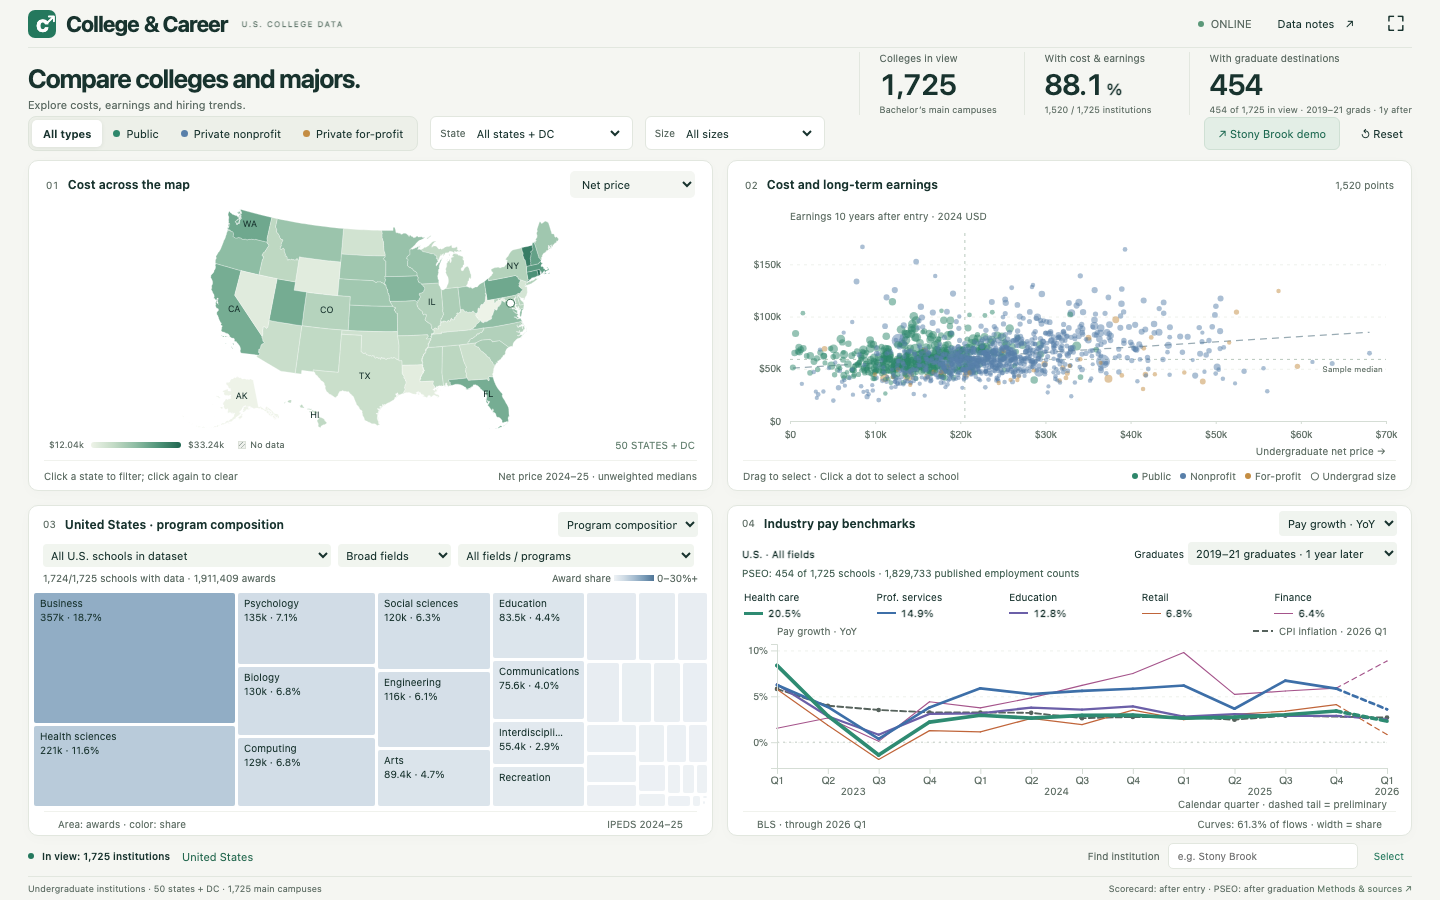
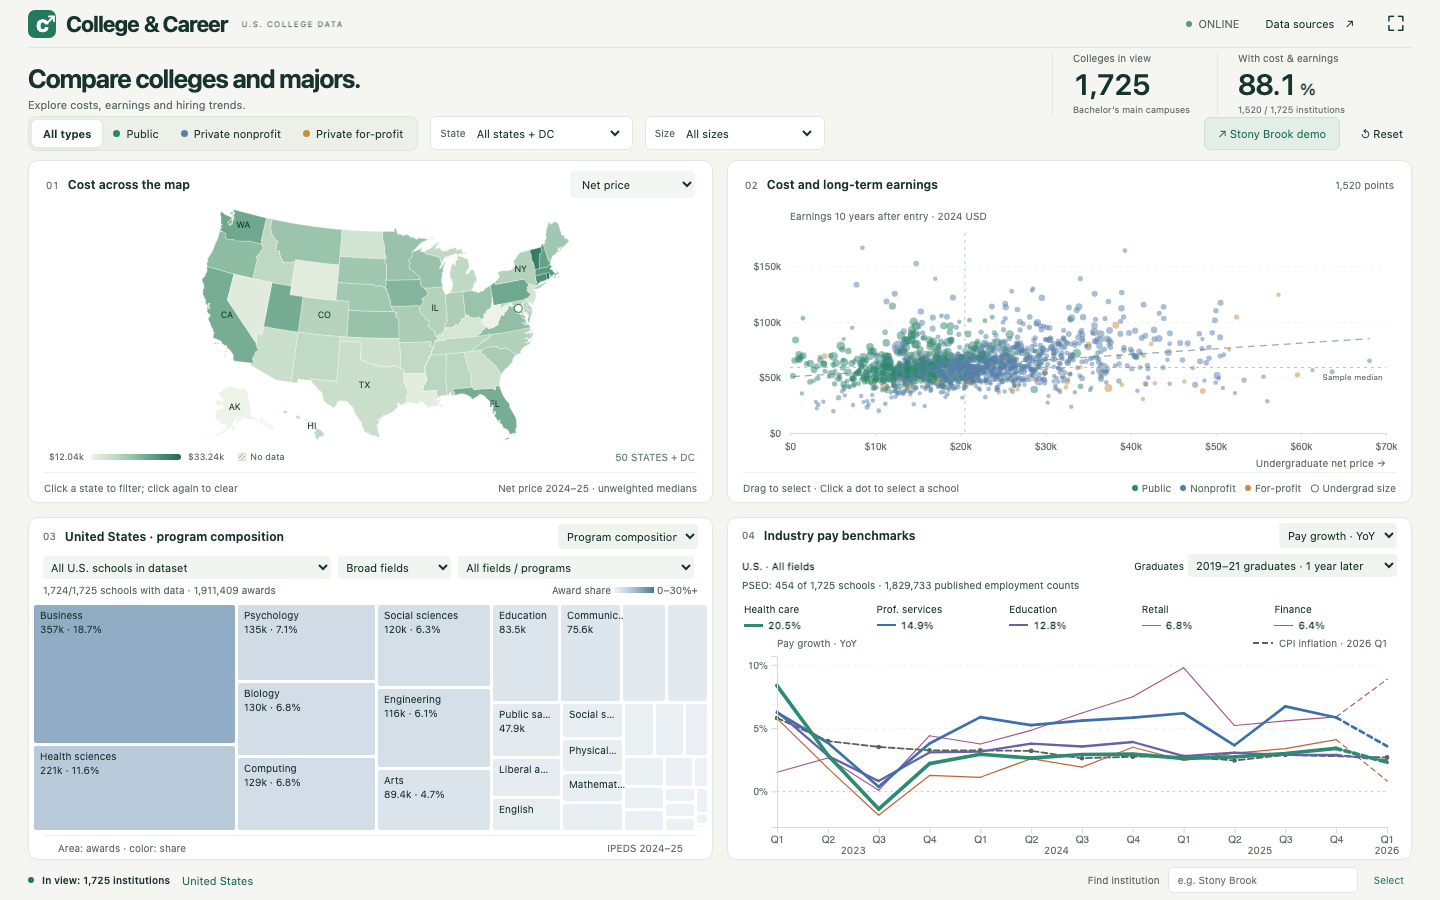
Remove dashboard footnotes and add source links

diff --git a/docs/styles.css b/docs/styles.css
@@ -413,18 +413,6 @@ a:focus-visible {
   border: 1px solid var(--line);
   border-radius: 5px;
   padding: 6px 9px;
-}footer {
-  border-top: 1px solid var(--line);
-  font-size: 9px;
-  color: #627168;
-  display: flex;
-  align-items: center;
-  justify-content: space-between;
-  gap: 15px;
-}footer button {
-  font-size: 9px;
-  color: #637c6b;
-  padding: 0;
 }.axis text {
   font-size: 9px;
   fill: #627168;
@@ -823,20 +811,20 @@ a:focus-visible {
 @media (max-height:820px) {.overview h1 { font-size:24px; }.program-summary { font-size:8px; }
 }/* School program -> major employment industries,
 directly in panel four. */
-.industry-pay-panel { grid-template-rows:36px 26px 38px minmax(0,1fr) 24px; }.industry-pay-panel .panel-head { padding:0 14px; }.industry-pay-panel .panel-head h2 { font-size:12px; }#industry-pay-mode { max-width:156px; padding:5px; border-radius:4px; background:#f0f4ef; font-size:10px; }.industry-pay-controls { display:flex; align-items:center; justify-content:space-between; gap:8px; padding:0 14px; min-width:0; }#industry-pay-scope { min-width:0; overflow:hidden; white-space:nowrap; text-overflow:ellipsis; font-size:10px; font-weight:550; }.industry-pay-controls select { flex-shrink:0; max-width:158px; font-size:10px; padding:4px; border-radius:4px; background:#f0f4ef; }#industry-pay-legend { display:grid; grid-template-columns:repeat(5,minmax(0,1fr)); gap:4px; align-items:center; padding:0 12px; min-width:0; }.industry-legend-item { min-width:0; padding:3px 4px; text-align:left; border-radius:4px; }.industry-legend-item > span { display:block; font-size:9px; white-space:nowrap; overflow:hidden; text-overflow:ellipsis; }.industry-legend-item b { display:flex; align-items:center; gap:5px; margin-top:4px; font-size:9px; font-weight:550; font-variant-numeric:tabular-nums; }.industry-legend-item i { display:inline-block; width:19px; height:0; }.industry-legend-item[aria-pressed="true"] { background:#fbefdc; box-shadow:inset 0 0 0 1px #b5701a; }.industry-pay-panel .panel-foot { padding:0 14px; gap:5px; font-size:8px; }.industry-pay-hit { cursor:pointer; }.industry-pay-hit:focus-visible { outline:none; stroke:#18332e; stroke-width:2px; stroke-opacity:1; stroke-dasharray:3 3; filter:drop-shadow(0 0 2px #ffffff); }
+.industry-pay-panel { grid-template-rows:36px 26px 38px minmax(0,1fr); }.industry-pay-panel .panel-head { padding:0 14px; }.industry-pay-panel .panel-head h2 { font-size:12px; }#industry-pay-mode { max-width:156px; padding:5px; border-radius:4px; background:#f0f4ef; font-size:10px; }.industry-pay-controls { display:flex; align-items:center; justify-content:space-between; gap:8px; padding:0 14px; min-width:0; }#industry-pay-scope { min-width:0; overflow:hidden; white-space:nowrap; text-overflow:ellipsis; font-size:10px; font-weight:550; }.industry-pay-controls select { flex-shrink:0; max-width:158px; font-size:10px; padding:4px; border-radius:4px; background:#f0f4ef; }#industry-pay-legend { display:grid; grid-template-columns:repeat(5,minmax(0,1fr)); gap:4px; align-items:center; padding:0 12px; min-width:0; }.industry-legend-item { min-width:0; padding:3px 4px; text-align:left; border-radius:4px; }.industry-legend-item > span { display:block; font-size:9px; white-space:nowrap; overflow:hidden; text-overflow:ellipsis; }.industry-legend-item b { display:flex; align-items:center; gap:5px; margin-top:4px; font-size:9px; font-weight:550; font-variant-numeric:tabular-nums; }.industry-legend-item i { display:inline-block; width:19px; height:0; }.industry-legend-item[aria-pressed="true"] { background:#fbefdc; box-shadow:inset 0 0 0 1px #b5701a; }.industry-pay-panel .panel-foot { padding:0 14px; gap:5px; font-size:8px; }.industry-pay-hit { cursor:pointer; }.industry-pay-hit:focus-visible { outline:none; stroke:#18332e; stroke-width:2px; stroke-opacity:1; stroke-dasharray:3 3; filter:drop-shadow(0 0 2px #ffffff); }
 @media(max-width:1250px) {.industry-pay-panel .panel-head h2 { font-size:11px; }#industry-pay-mode { max-width:142px; }.industry-pay-panel .panel-foot { font-size:7px; }.industry-legend-item > span,
 .industry-legend-item b { font-size:8px; }
 }.programs-panel .panel-head h2 { min-width:0; white-space:nowrap; overflow:hidden; text-overflow:ellipsis; }.programs-panel .panel-head > div { flex:1; min-width:0; }#program-view { flex-shrink:0; }
 
 /* Audited desktop layout. The chart grid stays fixed; narrow-height mode removes
-   the redundant hero/footer instead of hiding controls or adding scrolling. */
-.app-shell { grid-template-rows:48px 70px 42px minmax(0,1fr) 40px 24px; }
+   the hero instead of hiding controls or adding scrolling. */
+.app-shell { grid-template-rows:48px 70px 42px minmax(0,1fr) 40px; }
 .panel-head h2,.programs-panel .panel-head h2,.industry-pay-panel .panel-head h2 { font-size:12px; }
 .panel-foot,.programs-panel .panel-foot,.industry-pay-panel .panel-foot { font-size:10px; }
 .axis text,.axis-label,.coverage-caption,.program-row-label { font-size:10px; }
 .program-controls select,.industry-pay-controls select,#program-view,#industry-pay-mode { font-size:11px; }
 .program-summary,#program-color-key,#program-page { font-size:10px; }
-.industry-pay-panel { grid-template-rows:34px 27px 19px 38px minmax(0,1fr) 24px; }
+.industry-pay-panel { grid-template-rows:34px 27px 19px 38px minmax(0,1fr); }
 .industry-legend-item > span,.industry-legend-item b { font-size:10px; }
 #industry-pay-mode { max-width:190px; }
 #industry-pay-scope { font-size:10px; }
@@ -864,13 +852,13 @@ directly in panel four. */
   #industry-pay-scope { max-width:240px; }
 }
 @media(max-height:700px) {
-  .app-shell { grid-template-rows:40px 0 38px minmax(0,1fr) 30px 0; padding:0 16px; }
-  .overview,footer { display:none; }
+  .app-shell { grid-template-rows:40px 0 38px minmax(0,1fr) 30px; padding:0 16px; }
+  .overview { display:none; }
   .dashboard { gap:10px; }
   .panel-head { height:auto; }
   .panel { grid-template-rows:34px minmax(0,1fr) 22px; }
   .programs-panel { grid-template-rows:32px 24px 20px minmax(0,1fr) 22px; }
-  .industry-pay-panel { grid-template-rows:32px 24px 18px 34px minmax(0,1fr) 22px; }
+  .industry-pay-panel { grid-template-rows:32px 24px 18px 34px minmax(0,1fr); }
   .brand { font-size:19px; }
   .top-actions { gap:10px; }
   .source-badge { display:none; }
@@ -895,7 +883,6 @@ directly in panel four. */
 .app-shell > .toolbar { grid-row:3; }
 .app-shell > .dashboard { grid-row:4; }
 .app-shell > .selection-bar { grid-row:5; }
-.app-shell > footer { grid-row:6; }
 
 .size-filter { display:flex; }
 .school-search input[aria-invalid="true"] { outline:1px solid #ad6e48; }
@@ -913,7 +900,7 @@ directly in panel four. */
 .brand-caption { margin-left:14px; font-family:inherit; font-size:8px; font-weight:550; letter-spacing:1.2px; color:#657b70; white-space:nowrap; }
 .intro h1 { font-family:inherit; font-weight:650; color:var(--ink); }
 
-/* Compact chart values; detailed provenance is in the Data notes panel. */
+/* Compact chart values; primary source links are in the header. */
 #tooltip { max-width:310px; padding:10px 12px; font-size:12px; line-height:1.45; }
 #tooltip.data-notes { max-width:390px; }
 #tooltip .tip-row { display:flex; justify-content:space-between; align-items:baseline; gap:12px; margin-top:3px; }
@@ -931,3 +918,9 @@ directly in panel four. */
 .program-interval:focus-visible > rect { stroke:#18332e; stroke-width:2px; stroke-dasharray:3 2; }
 .scatter-brush .selection { fill:#b5701a; fill-opacity:.08; stroke:#b5701a; }
 .destination-pay-series:focus-within { opacity:1; }
+
+/* Compact, keyboard-accessible list of primary data sources. */
+#tooltip.data-notes { min-width:250px; }
+.source-links { display:grid; gap:3px; margin-top:7px; }
+.source-links a { display:flex; justify-content:space-between; gap:24px; padding:6px 8px; color:#ffffff; text-decoration:none; border-radius:4px; }
+.source-links a:hover,.source-links a:focus-visible { background:#ffffff18; outline:1px solid #c4d5cc; outline-offset:0; }

diff --git a/docs/app.js b/docs/app.js
@@ -96,8 +96,11 @@ function tooltipRow(label, value) {
 }
 function showTooltip(event, html, variant = "chart") {
   const el = getElement("tooltip");
+  if (variant !== "notes") getElement("method-button")?.setAttribute("aria-expanded", "false");
   el.classList.toggle("data-notes", variant === "notes");
   el.setAttribute("role","tooltip");
+  el.removeAttribute("aria-label");
+  el.removeAttribute("tabindex");
   el.style.pointerEvents="none";
   el.innerHTML = html;
   const bounds=event.currentTarget?.getBoundingClientRect?.();
@@ -110,7 +113,7 @@ function showTooltip(event, html, variant = "chart") {
 }
 function hideTooltip() {
   getElement("tooltip").hidden = true;
-  for(const id of ["method-button","source-link"])getElement(id)?.setAttribute("aria-expanded","false");
+  getElement("method-button")?.setAttribute("aria-expanded","false");
 }
 let toastTimer;
 function toast(text) {
@@ -160,9 +163,6 @@ function render() {
       : "—") + "<span>%</span>";
   getElement("pair-note").textContent =
     `${numberFormat.format(paired.length)} / ${numberFormat.format(filteredInstitutions.length)} institutions`;
-  getElement("kpi-flows").textContent = numberFormat.format(employment.withFlows);
-  getElement("flow-kpi-note").textContent =
-    `${numberFormat.format(employment.withFlows)} of ${numberFormat.format(employment.denominator)} in view · ${cohortLabel(state.pseoSnapshot)}`;
   getElement("state-filter").value = state.region;
   getElement("size-filter").value = state.size;
   getElement("map-metric").value = state.mapMetric;
@@ -706,17 +706,34 @@ getElement("open-school").addEventListener("click", searchSchool);
 getElement("school-search").addEventListener("keydown", (e) => {
   if (e.key === "Enter") searchSchool();
 });
-for (const id of ["method-button", "source-link"]) {
-  const button=getElement(id);button.setAttribute('aria-controls','tooltip');button.setAttribute('aria-expanded','false');
-  button.addEventListener('click',(event)=>{
-    if(button.getAttribute('aria-expanded')==='true'){hideTooltip();return;}
-    showTooltip(event,`<strong>Sources and comparison periods</strong>IPEDS: ${META.awardYear} bachelor’s degree awards, not enrollment.<br>PSEO: ${META.pseoRelease}; ${cohortLabel(state.pseoSnapshot)}. Program income is in ${META.pseoDollarYear} dollars.<br>Industry pay: national private-sector QCEW through ${META.quarterLatest}. Pay growth and CPI inflation compare the same quarter one year earlier. CPI is a national reference; both curves end at ${PAY_COMPARISON_END}.<br>Hiring demand: Indeed Hiring Lab, through ${window.HIRING_DATA?.latest || "the latest snapshot"}; national occupational indices and separate state all-job references. Related roles are reviewed mappings, not alumni destinations. Hiring is independent of the alumni cohort.<div class="tip-muted">Area sums awards in the active scope. Industry line width uses historical PSEO employment shares, not current enrollment. National industry pay is not selected alumni pay. Destination clicks highlight the map only. Escape closes this note.</div>`, "notes");
-    getElement('tooltip').style.pointerEvents='auto';
-    button.setAttribute('aria-expanded','true');
-    if(event.detail===0){getElement('tooltip').setAttribute('tabindex','-1');getElement('tooltip').setAttribute('role','note');getElement('tooltip').focus();}
-  });
-}
-document.addEventListener('pointerdown',(event)=>{if(!event.target.closest('#tooltip,#method-button,#source-link'))hideTooltip();});
+// A short source list replaces the former methods/provenance note.
+const dataSources = [
+  ["College Scorecard", "https://collegescorecard.ed.gov/data/"],
+  ["IPEDS", "https://nces.ed.gov/ipeds/"],
+  ["Census PSEO", "https://lehd.ces.census.gov/data/pseo_documentation.html"],
+  ["BLS · Industry pay", "https://www.bls.gov/cew/"],
+  ["BLS · Consumer prices", "https://www.bls.gov/cpi/"],
+  ["Indeed Hiring Lab", "https://github.com/hiring-lab/job_postings_tracker"],
+];
+const sourceButton = getElement("method-button");
+sourceButton.setAttribute("aria-controls", "tooltip");
+sourceButton.setAttribute("aria-expanded", "false");
+sourceButton.setAttribute("aria-haspopup", "dialog");
+sourceButton.addEventListener("click", (event) => {
+  if (sourceButton.getAttribute("aria-expanded") === "true") { hideTooltip(); return; }
+  const links = dataSources.map(([name, url]) =>
+    `<a href="${url}" target="_blank" rel="noopener noreferrer">${name}<span aria-hidden="true">↗</span></a>`).join("");
+  showTooltip(event, `<strong>Data sources</strong><nav class="source-links" aria-label="Data sources">${links}</nav>`, "notes");
+  const popup = getElement("tooltip");
+  popup.style.pointerEvents = "auto";
+  popup.setAttribute("role", "dialog");
+  popup.setAttribute("aria-label", "Data sources");
+  sourceButton.setAttribute("aria-expanded", "true");
+  if (event.detail === 0) { popup.setAttribute("tabindex", "-1"); popup.focus(); }
+});
+document.addEventListener("pointerdown", (event) => {
+  if (!event.target.closest("#tooltip,#method-button")) hideTooltip();
+});
 getElement("fullscreen").addEventListener("click", async () => {
   try {
     if (document.fullscreenElement) await document.exitFullscreen();

diff --git a/docs/industry-pay.js b/docs/industry-pay.js
@@ -85,10 +85,6 @@ function renderIndustryPay() {
     .attr('title',(row)=>`${row.label} · Share: ${row.count}/${total} · ${(100*row.share).toFixed(1)}%${row.available?'':' · Pay: N/A'}`)
     .html((row)=>`<span>${escapeHtml(row.short)}${row.available?'':' · N/A'}</span><b><i style="border-top:${WIDTH_PER_SHARE*row.share}px solid ${row.available?industryColor(row.code):'#b6bcb8'}"></i>${(100*row.share).toFixed(1)}%</b>`)
     .on('click',(_,row)=>{industryPayState.focus=industryPayState.focus===row.code?null:row.code;hideTooltip();requestRender();});
-  getElement('industry-pay-source').textContent=`BLS · through ${PAY_COMPARISON_END.replace('-',' ')}`;
-  getElement('industry-pay-source').title='QCEW wage growth (latest quarter preliminary) and CPI-U inflation';
-  getElement('industry-pay-coverage').textContent=total?`Curves: ${(100*covered).toFixed(1)}% of flows · width = share`:'No published destinations';
-  getElement('industry-pay-coverage').title=`Share: ${(100*covered).toFixed(1)}% · ${numberFormat.format(total)} total`;
   const reason=!scope?.ids.length?'No schools in this scope':!total?'No published employment destinations':!available.length?'No wage series for these employment sectors':null;
   getElement('industry-pay-empty').hidden=!reason;
   getElement('industry-pay-empty-title').textContent=reason||'';
@@ -103,7 +99,7 @@ function renderIndustryPay() {
     values:Object.fromEntries(available.map((row)=>[row.code,payPoints(row.code).map((p)=>[p.label,p.value])])),reason};
 }
 function drawIndustryPay({svg,w,h},industries,composition) {
-  const m={l:49,r:24,t:20,b:43};
+  const m={l:49,r:24,t:20,b:32};
   const series=industries.map((row)=>({...row,points:payPoints(row.code)}));
   const cpi={code:'cpi',label:'CPI inflation',reference:true,share:null,points:cpiPoints()};
   series.push(cpi);
@@ -167,14 +163,12 @@ function drawIndustryPay({svg,w,h},industries,composition) {
   for(const year of d3.range(Math.floor(dataExtent[0]),Math.floor(dataEnd)+1)){
     const first=Math.max(year,dataExtent[0]),last=Math.min(year+.75,dataEnd);
     svg.append('text').attr('class','axis-label quarter-year-label')
-      .attr('x',x((first+last)/2)).attr('y',h-16).attr('text-anchor','middle').text(year);
+      .attr('x',x((first+last)/2)).attr('y',h-5).attr('text-anchor','middle').text(year);
   }
   svg.append('g').attr('class','axis').attr('transform',`translate(${m.l},0)`)
     .call(d3.axisLeft(y).ticks(h<160?3:4).tickFormat((v)=>v+'%'));
   svg.append('text').attr('class','axis-label').attr('x',m.l).attr('y',11)
     .text('Pay growth · YoY');
-  svg.append('text').attr('class','axis-label').attr('x',w-m.r).attr('y',h-3).attr('text-anchor','end')
-    .text('Calendar quarter · dashed tail = preliminary');
   // Reference legend is separate from the five employment-share legend entries.
   const key=svg.append('g').attr('class','cpi-reference-key');
   const label=key.append('text').attr('class','axis-label').attr('x',w-m.r).attr('y',11)

diff --git a/docs/index.html b/docs/index.html
@@ -42,7 +42,7 @@
         >
         <div class="top-actions">
           <span class="source-badge"><i></i> ONLINE</span
-          ><button id="method-button" class="quiet">Data notes <span>↗</span></button
+          ><button id="method-button" class="quiet">Data sources <span>↗</span></button
           ><button
             id="fullscreen"
             class="icon-button"
@@ -68,10 +68,6 @@
           <div class="kpi">
             <span>With cost &amp; earnings</span><strong id="kpi-paired">88.1<span>%</span></strong
             ><small id="pair-note">1,520 / 1,725 institutions</small>
-          </div>
-          <div class="kpi">
-            <span>With graduate destinations</span><strong id="kpi-flows">454</strong
-            ><small id="flow-kpi-note">For the selected cohort and field</small>
           </div>
         </div>
       </section>
@@ -200,7 +196,6 @@
           <div id="industry-pay-legend" aria-label="Major employment industries and their shares"></div>
           <div class="chart"><svg id="industry-pay-svg" role="group" aria-label="National yearly industry wages with line width proportional to selected program employment share"></svg>
             <div id="industry-pay-empty" class="empty-state" hidden><b id="industry-pay-empty-title"></b><span id="industry-pay-empty-note"></span></div></div>
-          <div class="panel-foot"><span id="industry-pay-source"></span><span id="industry-pay-coverage"></span></div>
         </section>
       </main>
       <section class="selection-bar" aria-label="Current selection">
@@ -221,13 +216,6 @@
           ><button id="open-school" class="text-button">Select</button>
         </div>
       </section>
-      <footer>
-        <span>Undergraduate institutions · 50 states + DC · 1,725 main campuses</span
-        ><span
-          >Scorecard: after entry · PSEO: after graduation
-          <button id="source-link">Methods & sources ↗</button></span
-        >
-      </footer>
     </div>
     <div id="tooltip" role="tooltip" hidden></div>
     <div id="toast" role="status" hidden></div>

diff --git a/docs/hiring.js b/docs/hiring.js
@@ -151,12 +151,6 @@ function renderHiringDemand() {
     : selection.family
       ? `No reviewed role mapping · ${latestLabel}${selection.region ? ` · ${selection.region} all jobs` : " · U.S. all jobs"}`
       : `All-job references · ${latestLabel}${selection.region ? ` · ${selection.region} and U.S.` : " · United States"}`;
-  getElement("industry-pay-source").textContent = "Indeed Hiring Lab · seasonally adjusted";
-  getElement("industry-pay-source").title =
-    "Total postings · 7-day average · CC BY 4.0";
-  getElement("industry-pay-coverage").textContent = "Index · Feb 2020 = 100 · equal-width lines";
-  getElement("industry-pay-coverage").title =
-    "Feb 2020 = 100";
   getElement("industry-pay-empty").hidden = true;
   getElement("industry-pay-svg").setAttribute(
     "aria-label",
@@ -221,7 +215,7 @@ function renderHiringDemand() {
 }
 
 function drawHiringDemand({ svg, w, h }, series) {
-  const m = { l: 42, r: 22, t: 21, b: 30 };
+  const m = { l: 42, r: 22, t: 21, b: 22 };
   const x = d3
     .scaleUtc()
     .domain([d3.utcParse("%Y-%m-%d")("2023-01-01"), hiringDates.at(-1)])
@@ -321,14 +315,6 @@ function drawHiringDemand({ svg, w, h }, series) {
     .attr("x", m.l)
     .attr("y", 11)
     .text("Job postings index · Feb 1, 2020 = 100");
-  svg
-    .append("text")
-    .attr("class", "axis-label")
-    .attr("x", w - m.r)
-    .attr("y", h - 3)
-    .attr("text-anchor", "end")
-    .text(`Related roles, not alumni outcomes · to ${hiringDateLabel(hiringDates.at(-1))}`);
-
   // A single inspection surface shows ALL observed series at the nearest week.
   // This avoids pointer ambiguity where thin lines cross each other.
   const cursor = svg.append("g").attr("class", "hiring-cursor").attr("pointer-events", "none");

diff --git a/CODE_GUIDE.md b/CODE_GUIDE.md
@@ -57,3 +57,9 @@ For inspection in browser developer tools, see `collegeScopeSnapshot`,
 
 To update the site, edit `docs/`, test with a local static server, then commit
 and push. GitHub Pages serves that folder directly.
+
+
+`dataSources` in `app.js` supplies the six links opened by the header button.
+The source list reuses the compact popup container with interactive anchors;
+Escape and outside click close it. Chart hovers reset the source-open state.
+The shell has five grid rows and the market panel has no footer row.

diff --git a/README.md b/README.md
@@ -50,3 +50,8 @@ GitHub Pages publishes the `docs/` folder. Commit and push changes to update the
 - D3 and map geometry: licenses retained in `docs/vendor/`.
 
 Source periods and hashes are in `docs/source-manifest.js` and [provenance/](provenance/).
+
+
+The header's **Data sources** button opens six primary source links. The
+graduate-destination KPI, page footer and lower market-chart notes are removed.
+Quarter ticks and years remain visible in the fixed four-panel layout.
